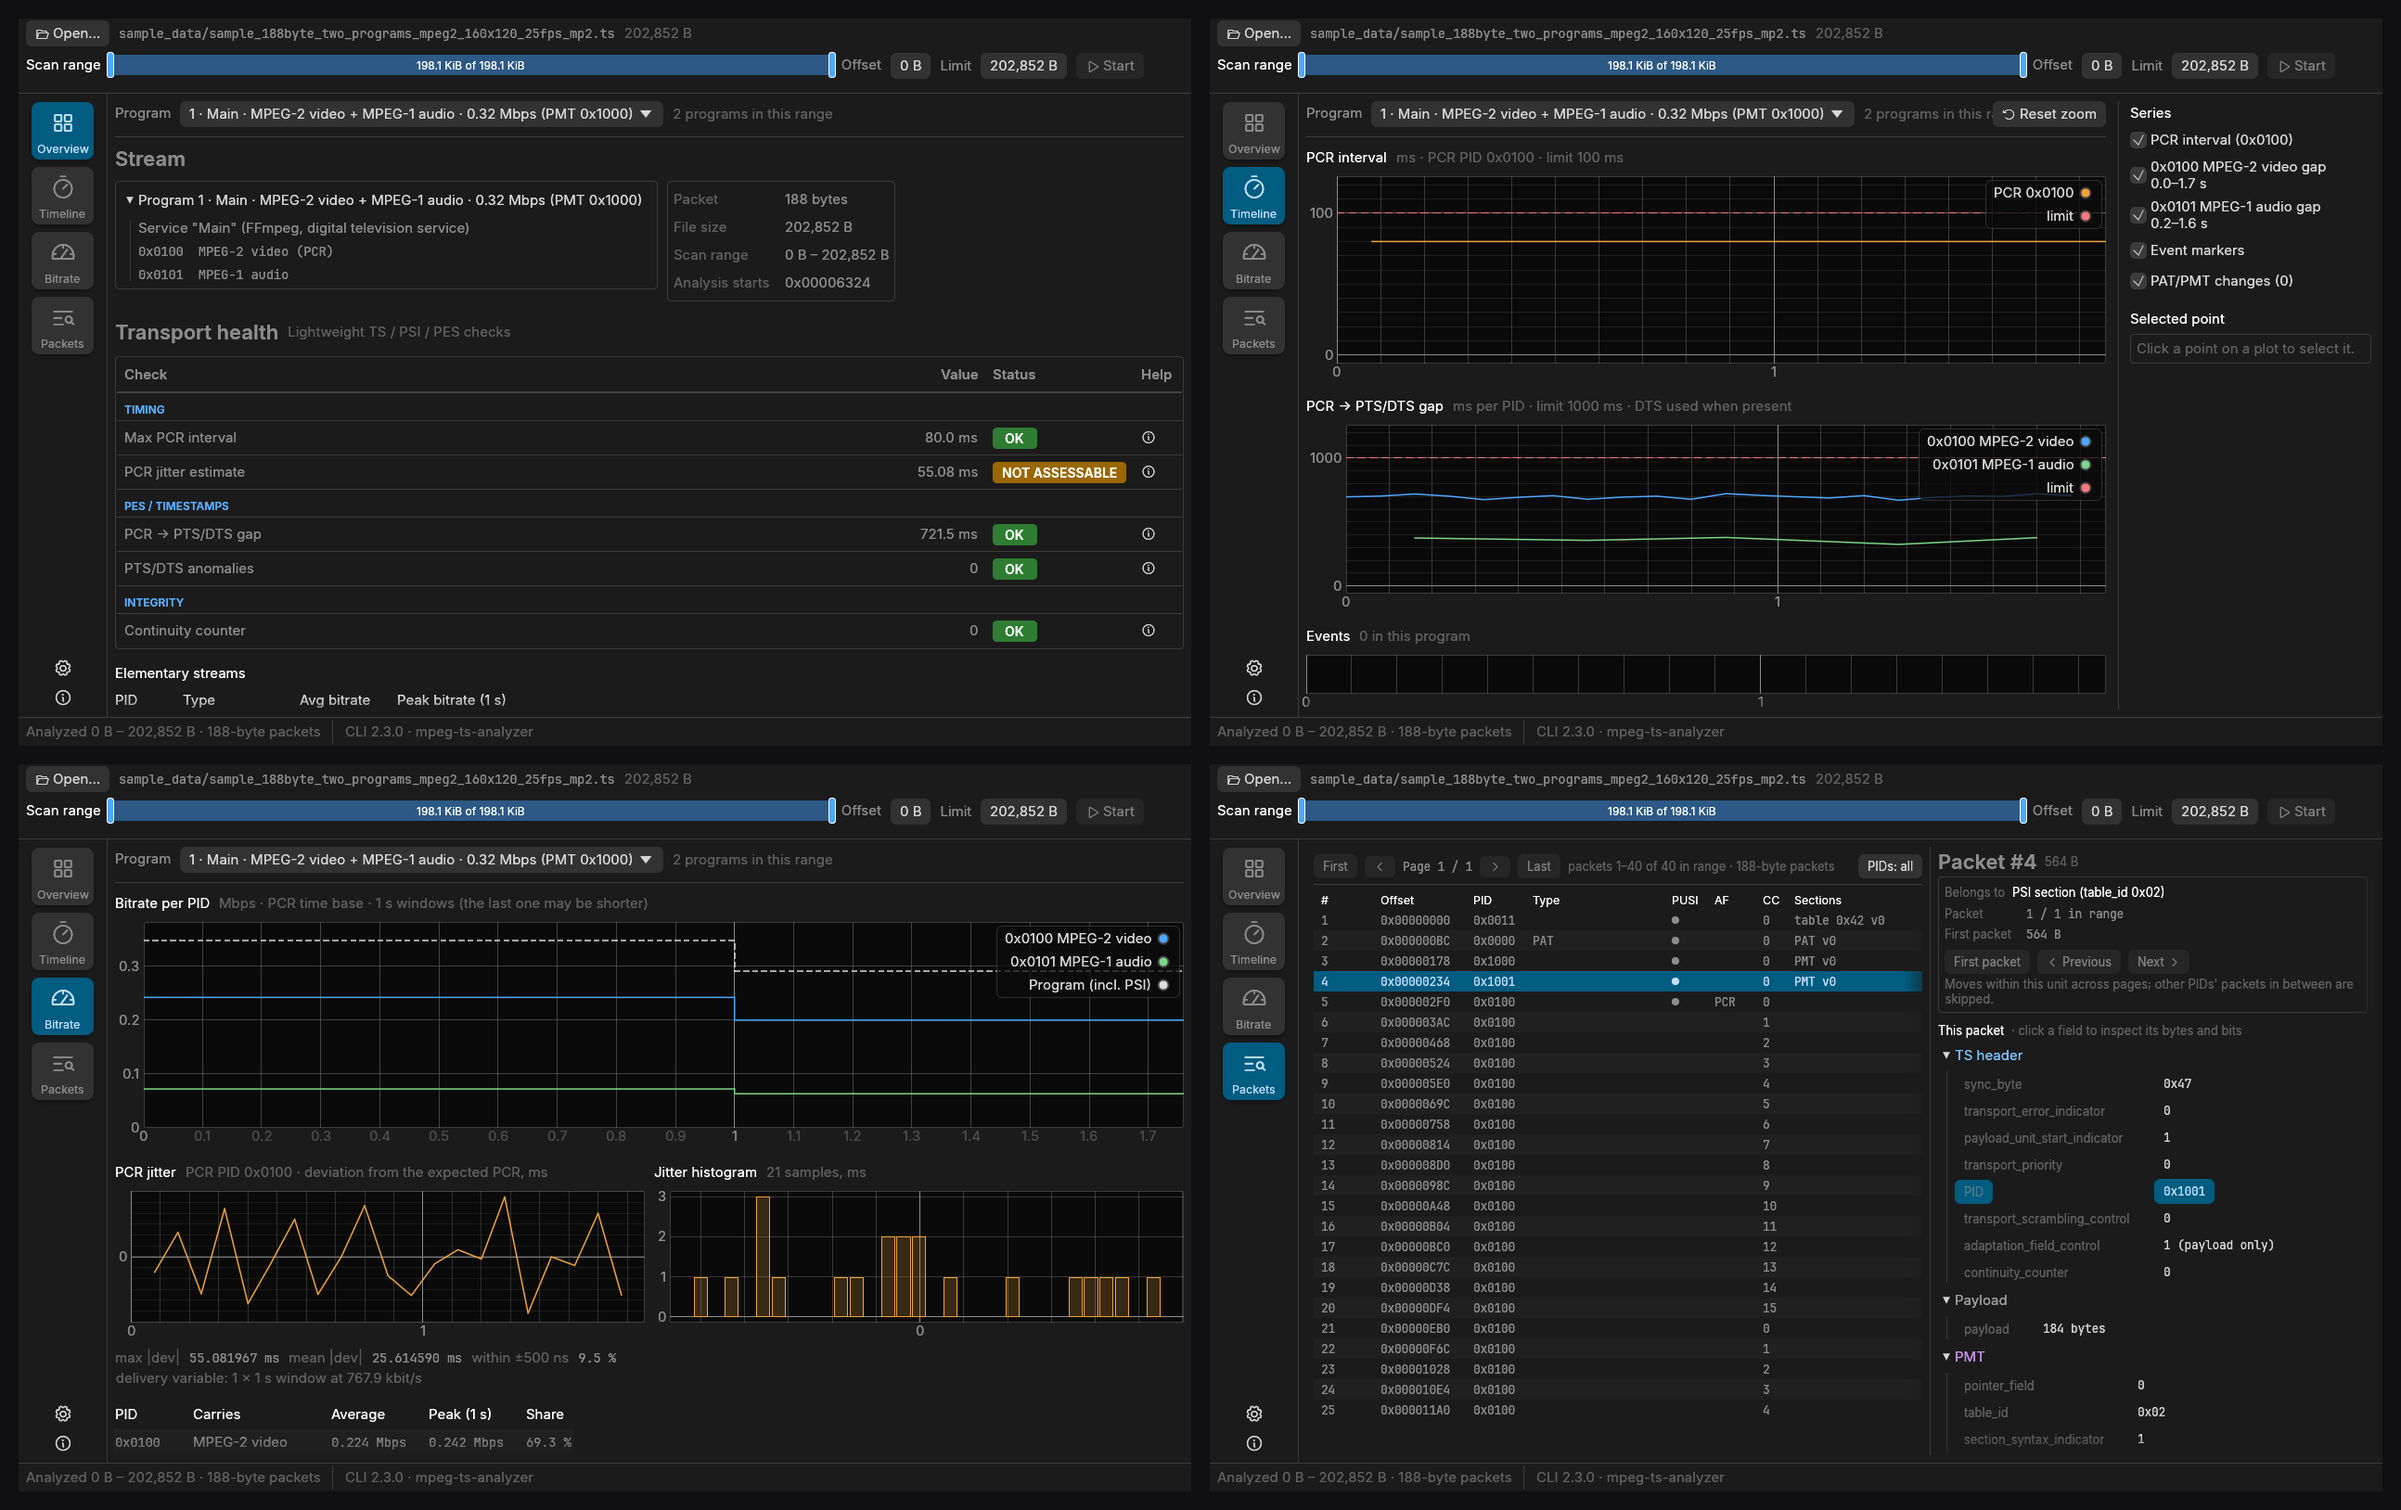
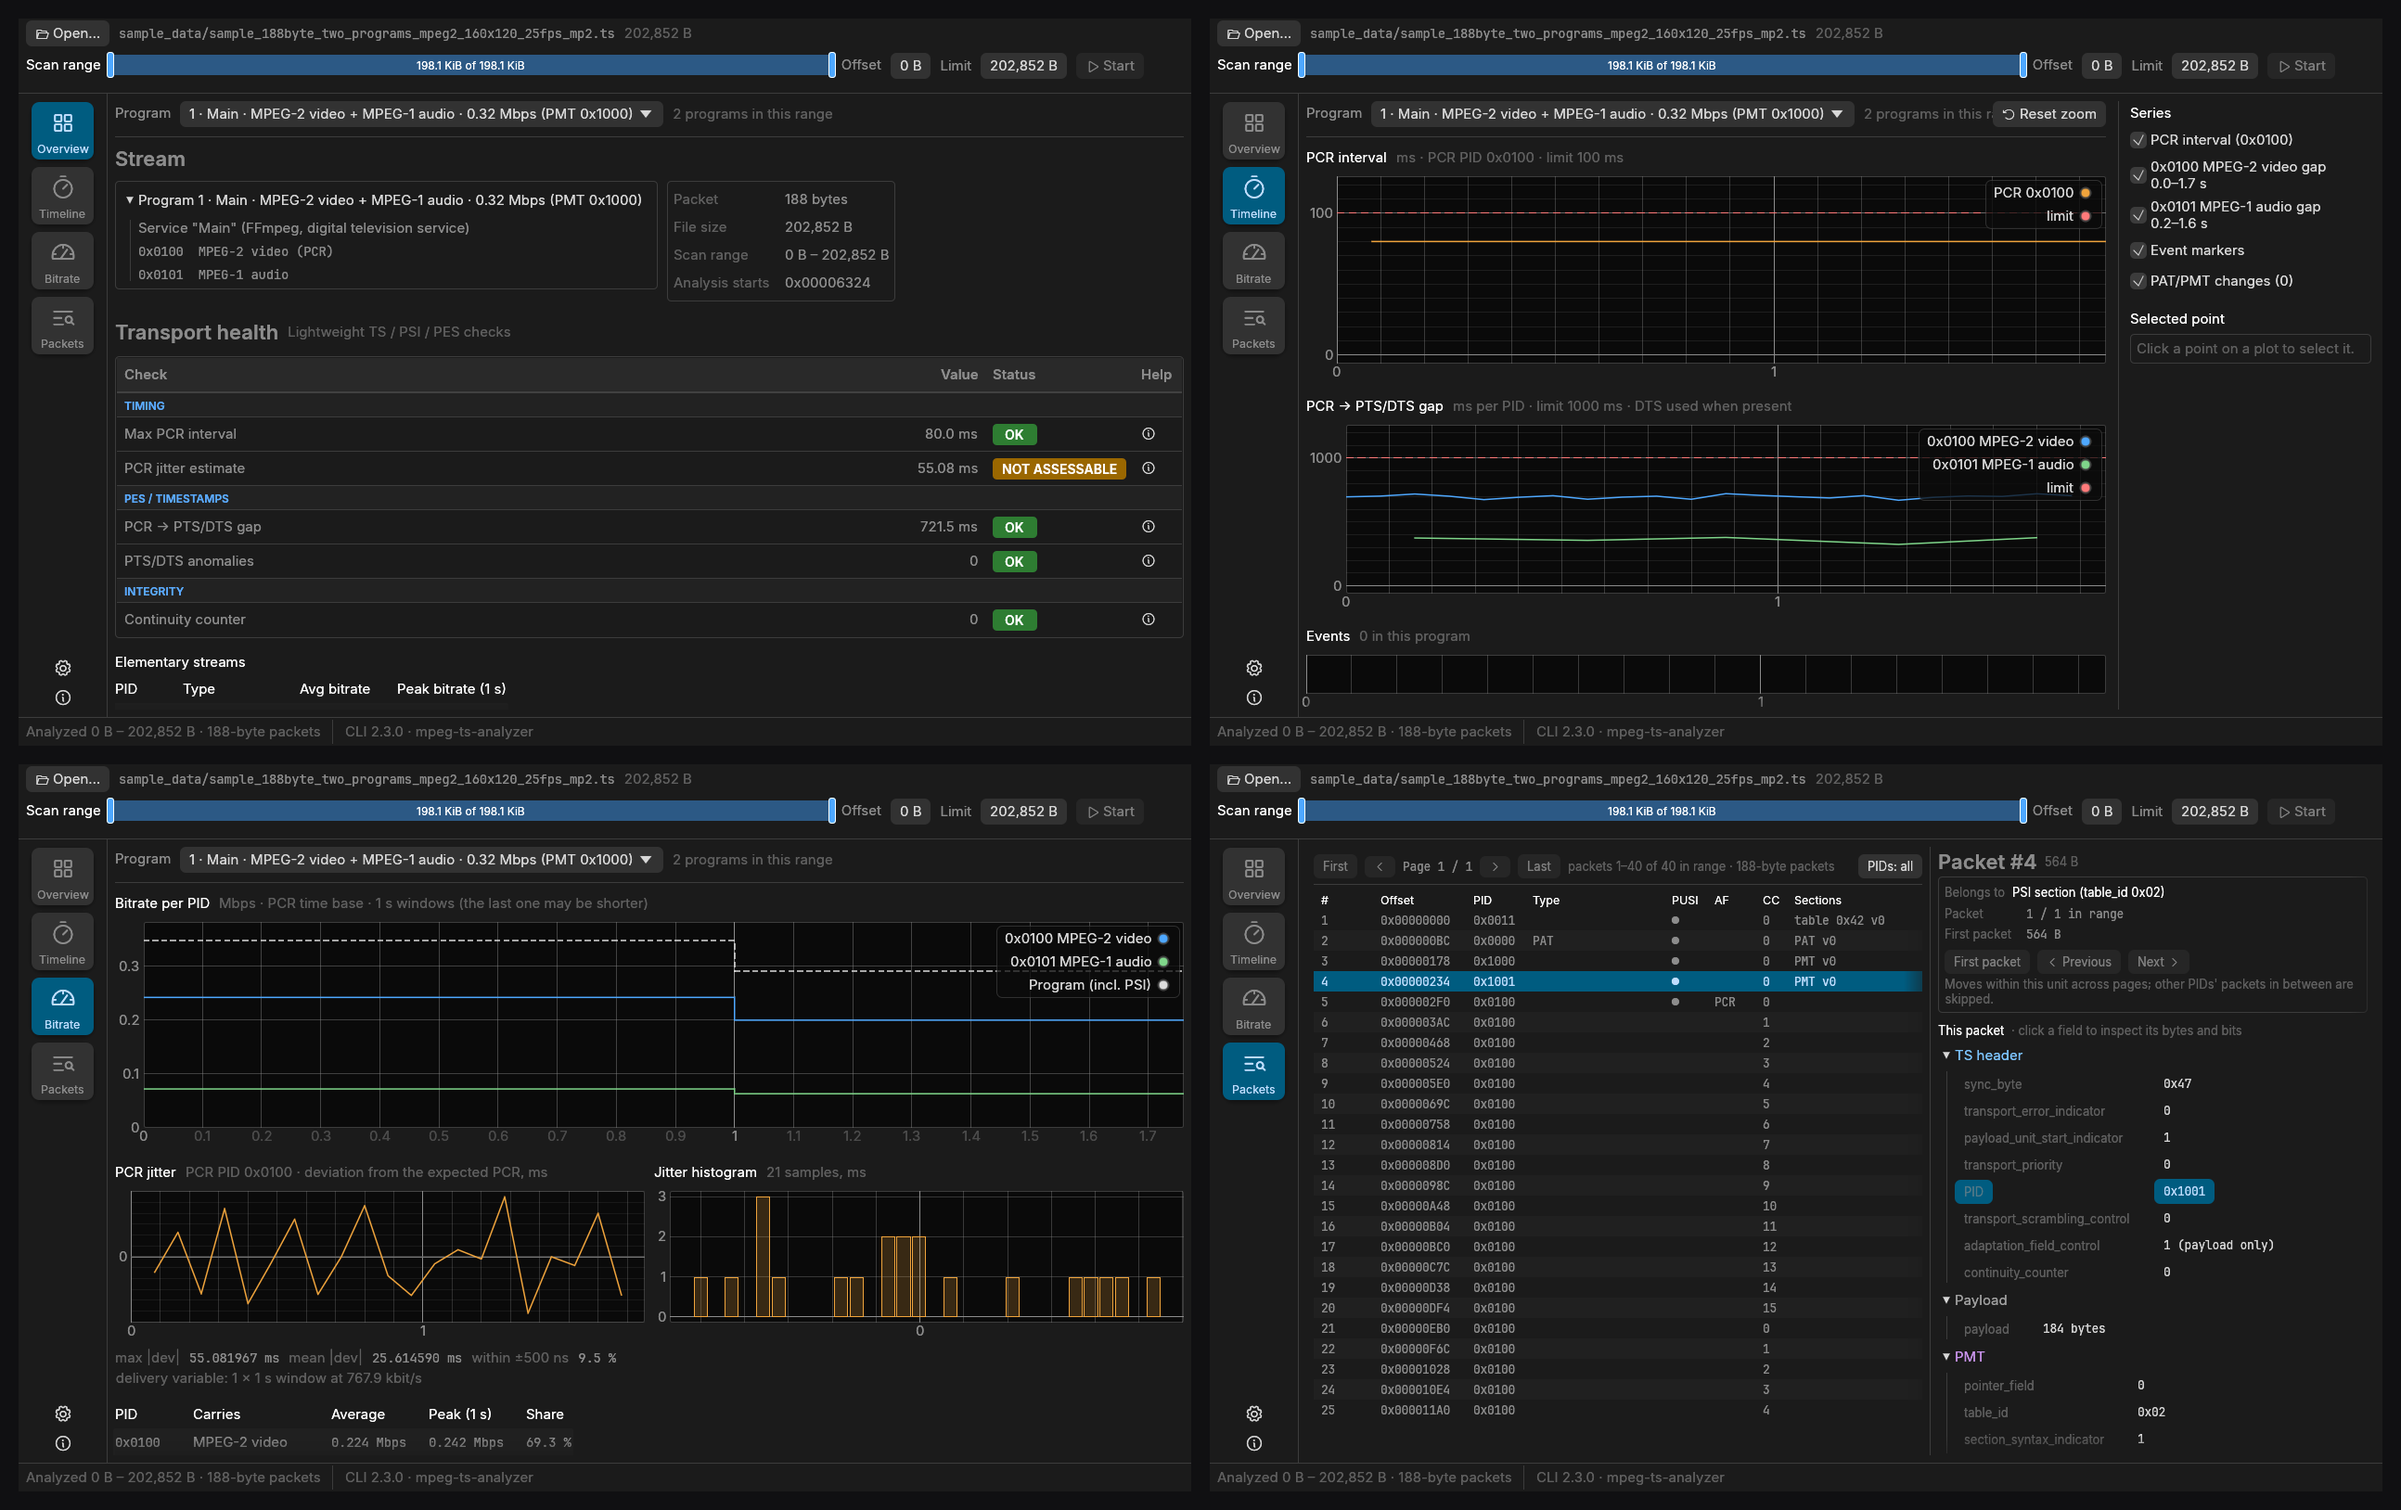
GUI: tint table header and category rows a small step from the panel
The fill-less header lost all contrast. Header rows are now the panel
mixed 12% toward the text color and category rows 6%, computed from the
current light or dark visuals, keeping the semibold header text, the
rule below it and the accent category labels. Approved by the owner on
macOS. README screenshot regenerated.

Changed region(s): [[0.0309, 0.2764, 0.1236, 0.4607], [0.3709, 0.2764, 0.4946, 0.43], [0.1236, 0.43, 0.1546, 0.4607]]

diff --git a/gui/src/theme.rs b/gui/src/theme.rs
@@ -42,11 +42,11 @@ pub const VIDEO_COLOR: Color32 = Color32::from_rgb(0x4e, 0xa8, 0xff);
 pub const AUDIO_COLOR: Color32 = Color32::from_rgb(0x7f, 0xd6, 0x8a);
 pub const PSI_COLOR: Color32 = Color32::from_rgb(0xc7, 0x92, 0xea);
 pub const LIMIT_COLOR: Color32 = Color32::from_rgb(0xff, 0x7a, 0x7a);
-// Tables follow Material Design 3's data tables: the header row sits on the
-// same surface as the rows (no fill) with medium-emphasis semibold text and a
-// stronger rule below it; rows are separated by thin dividers; a category is a
-// subheader in the accent color. Every color comes from the current light or
-// dark visuals, never a fixed value.
+// Tables loosely follow Material Design 3's data tables: a lightly tinted
+// header row with medium-emphasis semibold text and a stronger rule below it,
+// thin dividers between rows, and categories as accent subheaders on a
+// fainter tint. Every color comes from the current light or dark visuals,
+// never a fixed value.
 
 /// Text of a table's column headers: semibold, in the theme's ordinary
 /// (medium-emphasis) text color.
@@ -54,6 +54,28 @@ pub fn table_header_text(text: &str, visuals: &egui::Visuals) -> egui::RichText 
     egui::RichText::new(text)
         .family(FontFamily::Name(HEADING_FAMILY.into()))
         .color(visuals.text_color())
+}
+
+/// `base` moved `amount` (0–1) of the way toward `toward`.
+fn mix(base: Color32, toward: Color32, amount: f32) -> Color32 {
+    let channel =
+        |a: u8, b: u8| (f32::from(a) + (f32::from(b) - f32::from(a)) * amount).round() as u8;
+    Color32::from_rgb(
+        channel(base.r(), toward.r()),
+        channel(base.g(), toward.g()),
+        channel(base.b(), toward.b()),
+    )
+}
+
+/// Fill of a table's header row: the panel tinted slightly toward the text
+/// color, so it stands apart by the same small step in light and dark.
+pub fn table_header_fill(visuals: &egui::Visuals) -> Color32 {
+    mix(visuals.panel_fill, visuals.text_color(), 0.12)
+}
+
+/// Fill of a category subheader row: half the header's tint.
+pub fn table_category_fill(visuals: &egui::Visuals) -> Color32 {
+    mix(visuals.panel_fill, visuals.text_color(), 0.06)
 }
 
 /// The rule under a table's header row, stronger than the row dividers.

diff --git a/gui/src/views/overview.rs b/gui/src/views/overview.rs
@@ -575,7 +575,8 @@ fn health_table(ui: &mut egui::Ui, rows: &[Row], state: &mut OverviewState) {
         ui.set_width(inner);
         accessible_scope(ui, builder, |ui| {
             ui.spacing_mut().item_spacing.y = 0.0;
-            table_row(ui, &columns, None, None, |ui, cell| {
+            let header_fill = crate::theme::table_header_fill(ui.visuals());
+            table_row(ui, &columns, Some(header_fill), None, |ui, cell| {
                 let title = match cell {
                     Cell::Check => "Check",
                     Cell::Value => "Value",
@@ -774,10 +775,11 @@ const CELL_MAX_HEIGHT: f32 = 10_000.0;
 /// room above it, announced as a heading with its title as written.
 fn category_row(ui: &mut egui::Ui, title: &str, width: f32) {
     egui::Frame::new()
+        .fill(crate::theme::table_category_fill(ui.visuals()))
         .inner_margin(egui::Margin {
             left: CELL_PADDING as i8,
             right: CELL_PADDING as i8,
-            top: 10,
+            top: 6,
             bottom: 4,
         })
         .show(ui, |ui| {

diff --git a/gui/src/views/check_detail.rs b/gui/src/views/check_detail.rs
@@ -255,7 +255,7 @@ fn verdict_table(ui: &mut egui::Ui, statuses: &[(&str, &str)], current: Option<&
                         ui.visuals(),
                     ));
                 },
-                None,
+                Some(crate::theme::table_header_fill(ui.visuals())),
                 None,
             );
             overview::rule(ui, inner, crate::theme::table_header_rule(ui.visuals()));
